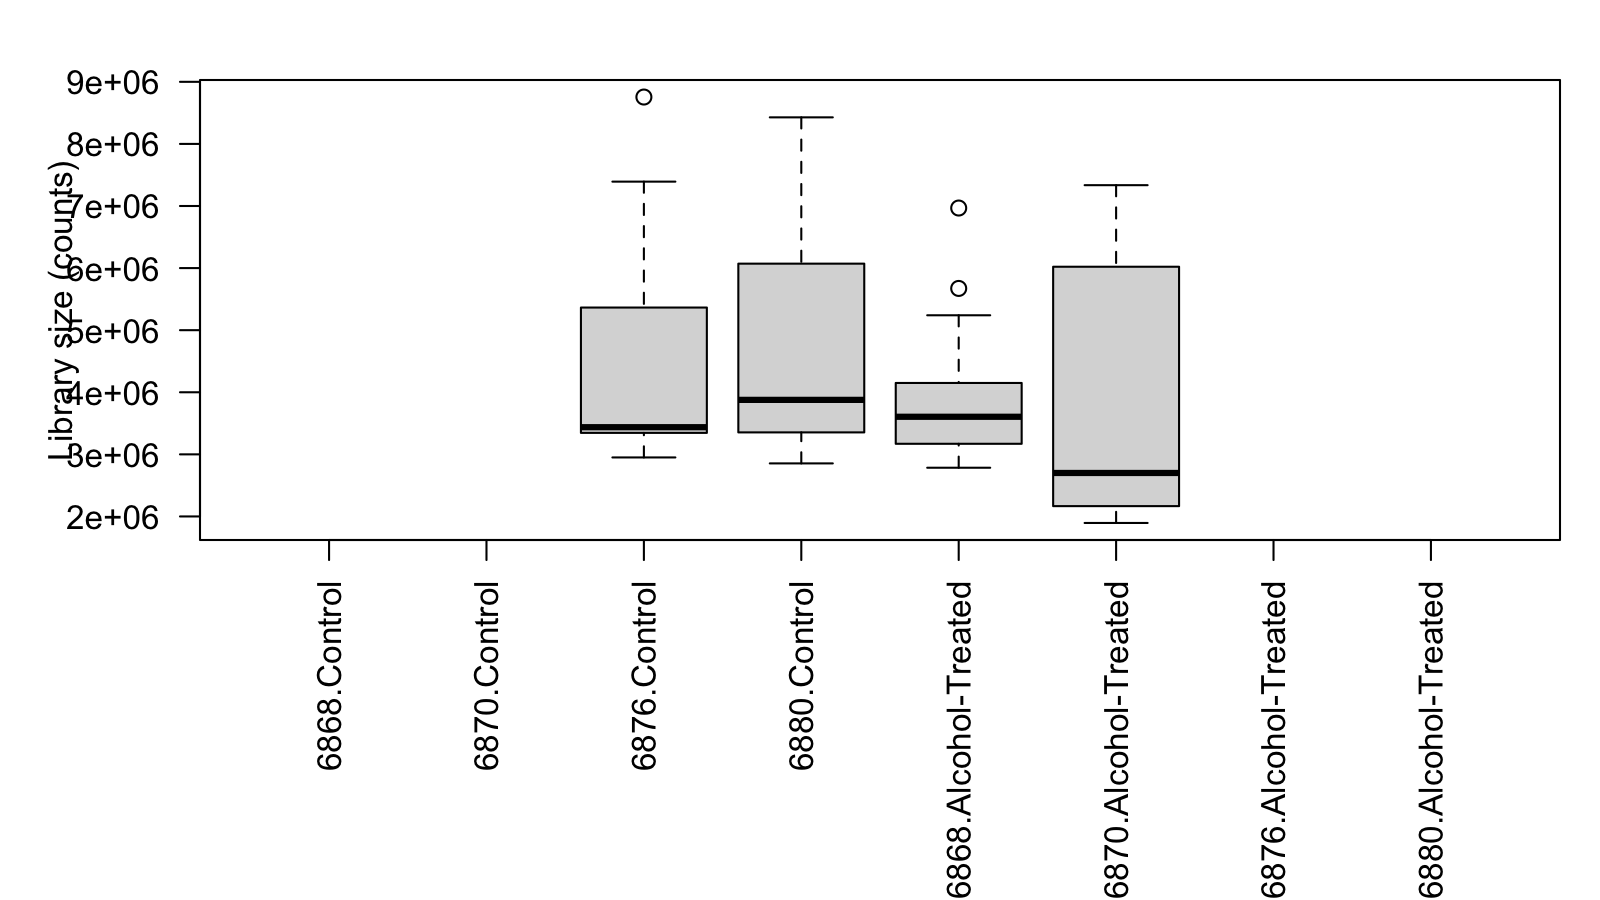
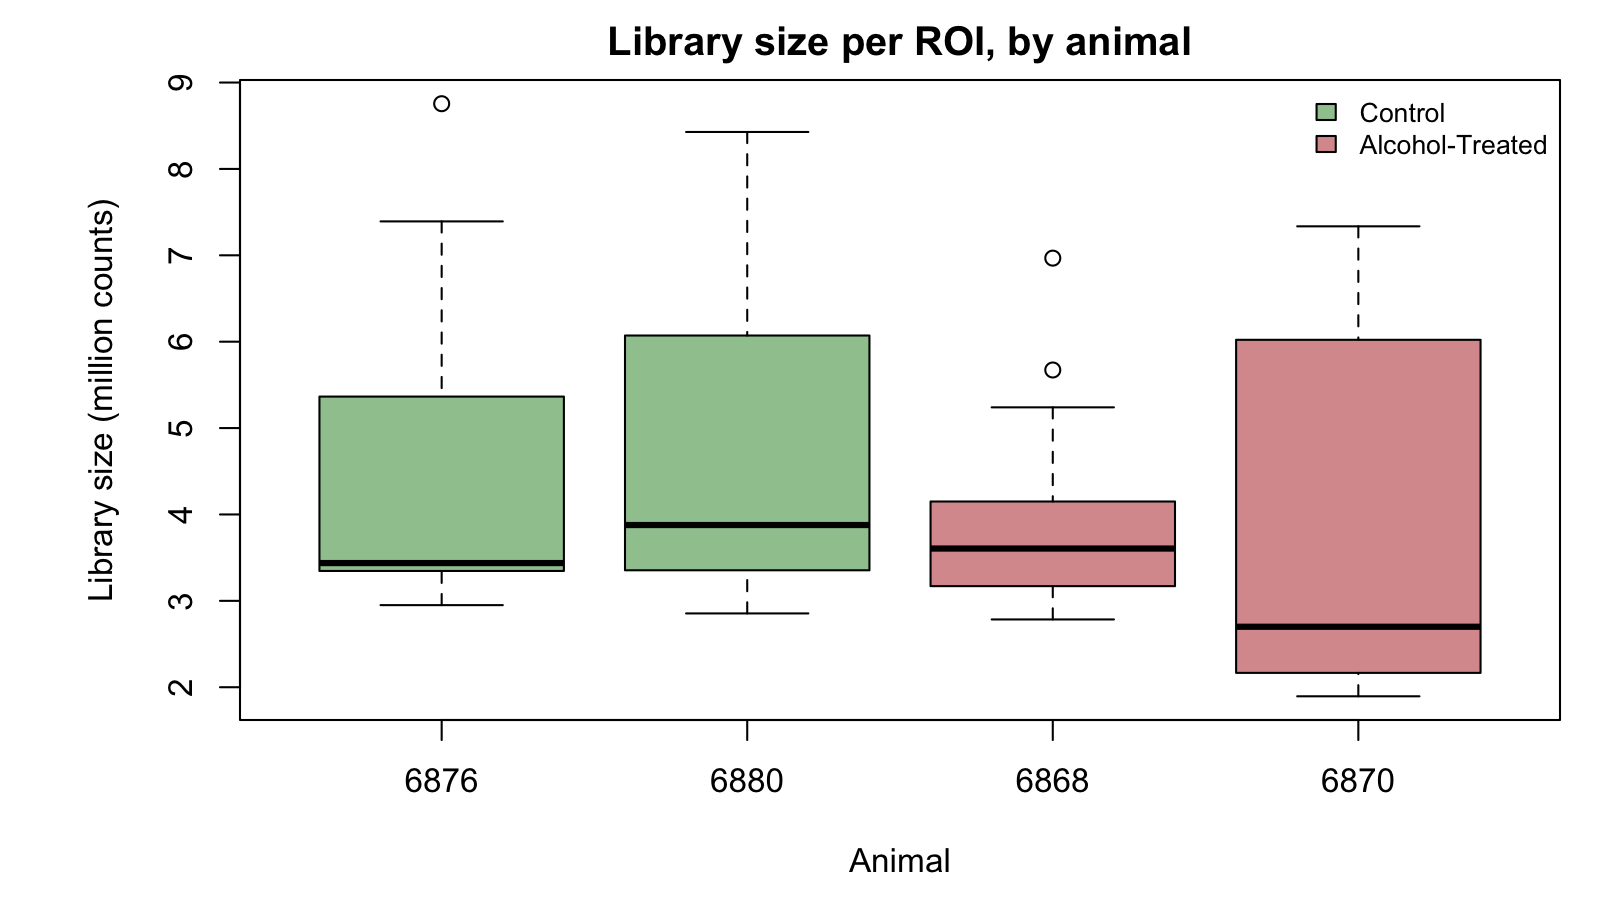
Use ComplexHeatmap for heatmaps and fix QC, PCA and volcano figures
Heatmaps use row z-scores with the ComplexHeatmap default blue, white and red
Q3 vs NegProbe now shows the y = x line, library size is one box per animal
PCA legend moved outside the plot with one entry per animal
Volcano colors genes by FDR with up and down counts in the title

diff --git a/README.md b/README.md
@@ -74,14 +74,14 @@ Rscript run_pipeline.R                                      # synthetic example 
 GEOMX_CONFIG=config_real.yml Rscript run_pipeline.R         # published data from GSE324193
 ```
 
-The `data/raw/` folder holds the published counts and metadata. The `results/` folder holds the figures, quality control files, summaries, and the primary pseudobulk tables. The larger intermediate tables are not stored in the repository, but they are created again each time the pipeline runs. The pipeline needs R with the `tidyverse`, `readxl`, `yaml`, `edgeR`, `limma`, `DESeq2`, and `pheatmap` packages.
+The `data/raw/` folder holds the published counts and metadata. The `results/` folder holds the figures, quality control files, summaries, and the primary pseudobulk tables. The larger intermediate tables are not stored in the repository, but they are created again each time the pipeline runs. The pipeline needs R with the `tidyverse`, `readxl`, `yaml`, `edgeR`, `limma`, `DESeq2`, and `ComplexHeatmap` packages.
 
 ```
 R/00_setup.R               loads packages, settings, and the ROI subsetting helper
 R/01_prepare_data.R        reads metadata and counts, then adds animal ID, LOQ, and ROI quality control
 R/02_qc_pca.R              plots Q3 against background and runs PCA for each ROI type
 R/03_run_dge.R             runs the three models and saves tables, volcano plots, and ranked gene lists
-R/04_summary_figures.R     plots significant genes per model and heatmaps of the top genes
+R/04_summary_figures.R     plots significant genes per model and ComplexHeatmap heatmaps of the top genes
 R/05_label_swap_check.R    reruns the primary model with the incorrect animal pairings
 R/06_filter_sensitivity.R  tests the optional mean count filter
 ```
